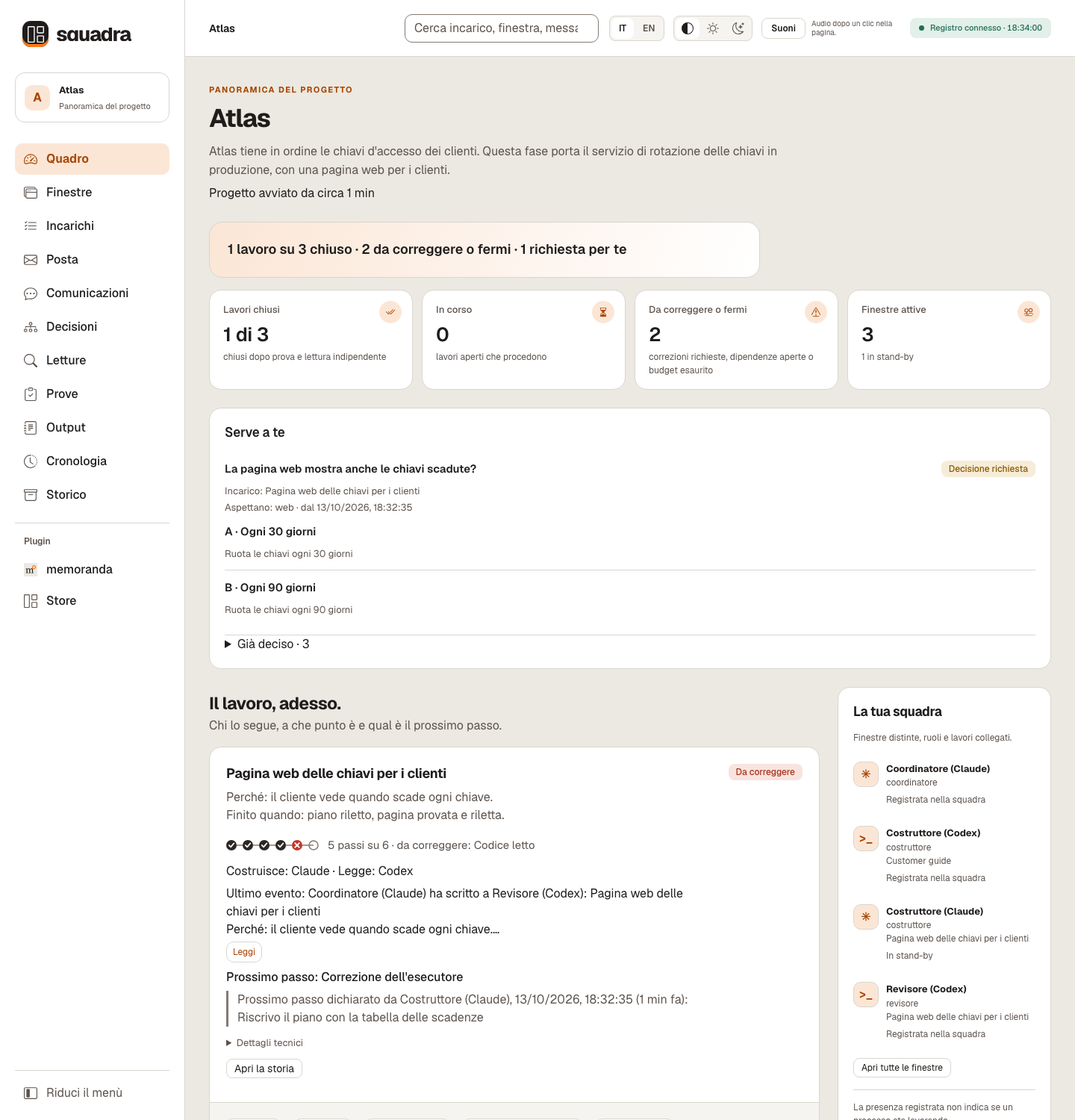
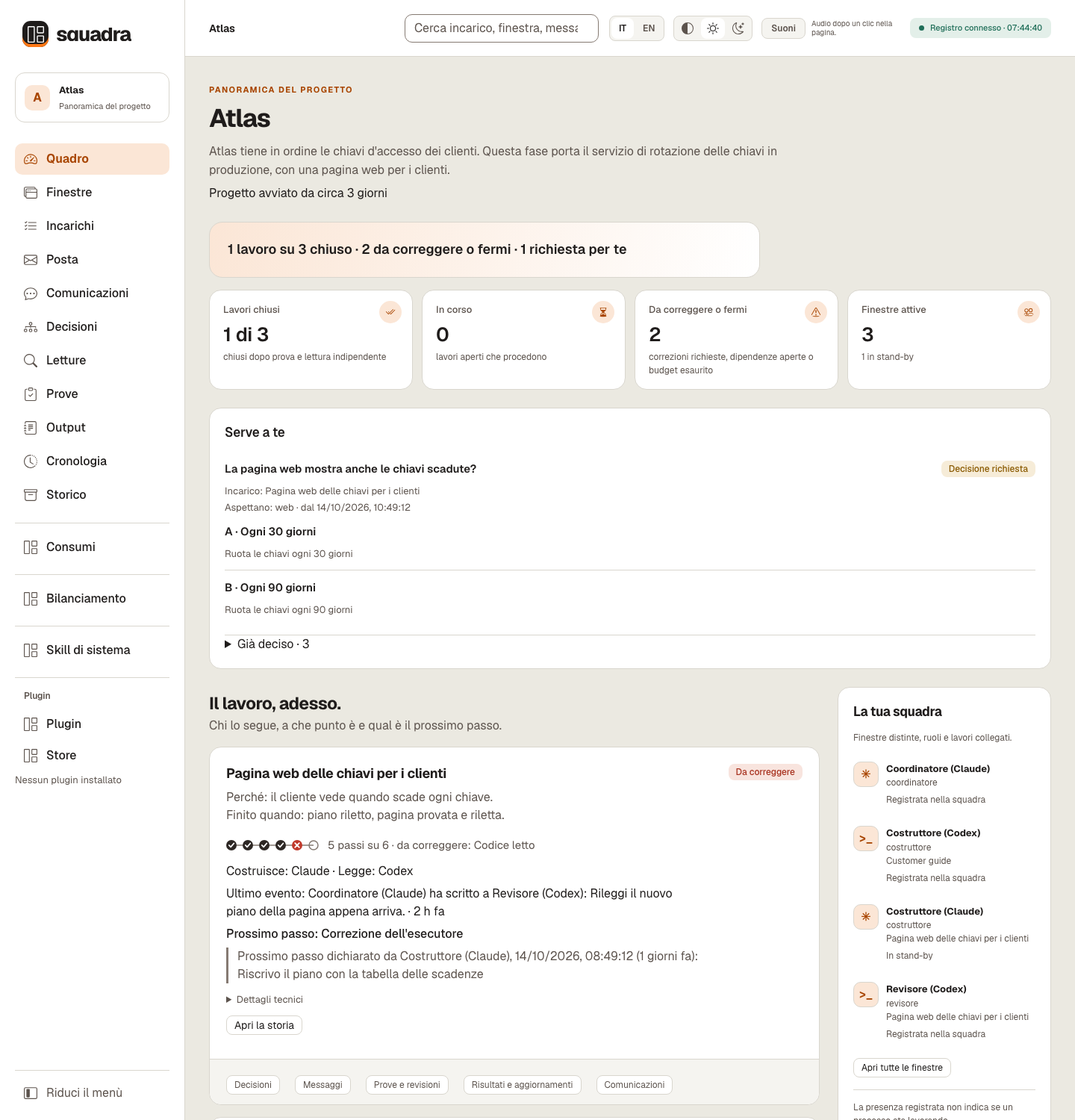
README for 3.10.1: news layout, speed table, new flags, fresh screenshots
- What's new / Novità: 3.10.1 and 3.10.0 stay visible; 3.9.1 and older
  fold into one «Earlier versions» / «Versioni precedenti» block with
  their text unchanged.
- The 3.10.1 entry carries the live speed table the coordinator measured
  on the squad's registry, says where the two «before» times come from,
  and leaves a marked comment for the token row.
- Commands: send --info, status --all and cancel --abandon in the command
  table and in the mail and waits sections; every command line and fenced
  example checked against the 3ca33aa parser.
- Screenshots from a synthetic Atlas registry with synthetic session
  files: overview light and dark and the Store cards refreshed; Usage,
  Balance and System skills added to the Dashboard section and to the
  page guide's screenshot table. No version string, path or real data in
  any saved area.

diff --git a/README.it.md b/README.it.md
@@ -35,15 +35,32 @@ Una squadra mescola finestre Claude Code e Codex, e ogni fornitore ti mostra sol
 
 - **Bilanciamento (nuova skill di sistema).** Consigli su finestre e modelli in base a carico, quota e storia, con i numeri su cui si basa ogni consiglio. Non assegna niente. La pagina dice a parole semplici cosa controlla, i valori di oggi e perché non c'è nessun consiglio quando non ce n'è.
 - **I totali dei Consumi restano stabili mentre i file di sessione crescono.** I calcoli salvati si riusano al riavvio della dashboard; un file riscritto viene ricontato, e una cache assente o non sicura (per esempio con un collegamento simbolico nel percorso) viene ricostruita, come la pagina Consumi segnala.
-- **Comandi che costano meno token alle finestre.** Ogni comando stampava nella finestra che lo lanciava l'intero elenco degli avvisi aperti; ora stampa una risposta breve, e l'elenco completo solo su richiesta (sulla nostra squadra, meno di 3 KB per comando invece di fino a 89 KB).
-- **Un registro che resta veloce mentre la storia cresce.** Un comando ora legge e scrive solo ciò che è cambiato, non tutta la storia (misurato su una copia del nostro registro di 8.500 eventi: «a che punto siamo» da 8,6 a 1,2 secondi, l'invio di un messaggio a un'altra finestra da 27 a 3,2 secondi). La verifica dell'intera catena resta, nei momenti indicati nella guida.
+- **Comandi che costano meno token alle finestre.** Ogni comando stampava nella finestra che lo lanciava l'intero elenco degli avvisi aperti; ora stampa una risposta breve, e `squadra status --all` stampa l'elenco completo (le misure sono nella tabella qui sotto).
+- **Un registro che resta veloce mentre la storia cresce.** Un comando ora legge e scrive solo ciò che è cambiato, non tutta la storia; su una copia del nostro registro di 8.500 eventi, l'invio di un messaggio a un'altra finestra è passato da 27 a 3,2 secondi. La verifica dell'intera catena resta, nei momenti indicati nella guida.
 - **Una dashboard più leggera** che scarica solo ciò che è cambiato, e **grafici animati** nelle pagine Consumi e Bilanciamento.
-- **Messaggi solo informativi** che non chiedono risposta: non restano più aperti come attese.
+- **Messaggi solo informativi** (`send --info`) che non chiedono risposta: non restano più aperti come attese.
 - Plugin: memoranda 1.0.6, Playwright 1.0.7, Sentry 0.1.4.
+
+**Misurato sulla nostra squadra.** Il nostro coordinatore ha preso queste misure sul registro di questa squadra (circa 9.980 eventi) dopo l'installazione della 3.10.1. I due tempi «prima» vengono dagli stessi comandi cronometrati su una copia precedente dello stesso registro, prima della modifica. Dopo l'aggiornamento, i primi comandi costruiscono un'istantanea verificata in circa 6 secondi; i tempi qui sotto sono quelli dei comandi successivi.
+
+| Cosa abbiamo misurato | Prima | Con la 3.10.1 |
+|---|---|---|
+| «A che punto siamo» (`squadra status`) | 8,6 s | 0,85 s |
+| Salvare un aggiornamento (`squadra output`) | 10,7 s | 0,86 s |
+| Risposta stampata da un comando | 75–95 KB | circa 2,2 KB |
+| Aggiornamento della dashboard quando nulla è cambiato | 8 MB | 0,2 KB |
+| Totali dei Consumi mentre le finestre lavorano | salivano e scendevano | solo in crescita (50 campioni, nessuno più basso) |
+
+<!-- TOKEN ROW for the coordinator: before publishing, move this row into the table above if it was measured; otherwise delete this comment.
+| Token che una finestra Claude spende per un «a che punto siamo» | circa 5.000 | circa 1.900 |
+-->
 
 **3.10.0**
 - **Pagina «Consumi»: i token spesi dai modelli.** Squadra legge i file di sessione che Claude Code e Codex tengono già sul tuo computer e ne conserva solo i conteggi dei token, con modello, orario e gli identificativi di sessione e di messaggio che servono a contarli una volta sola: non salva, non mostra e non invia mai il testo delle conversazioni. Li mostra per finestra, giorno, modello e incarico, con grafici e suggerimenti per modello. La quota di Codex è misurata, per ogni finestra del fornitore; un costo stimato compare solo se inserisci i tuoi prezzi. `squadra usage` stampa gli stessi dati.
 - Plugin: memoranda 1.0.5, Playwright 1.0.6, Sentry 0.1.3.
+
+<details>
+<summary><strong>Versioni precedenti</strong></summary>
 
 **3.9.1**
 - **Ritocchi all'interfaccia.** Più spazio nella pagina «Skill di sistema» e tra i suoi blocchi; il grassetto nelle descrizioni delle skill appare come grassetto; l'obiettivo del progetto e la guida alla lettura compaiono solo nella panoramica; più badge in cima a questa pagina.
@@ -64,6 +81,8 @@ Una squadra mescola finestre Claude Code e Codex, e ogni fornitore ti mostra sol
 - **Plugin Sentry (anteprima).** Porta in Squadra riepiloghi ripuliti degli errori. Gratis · Sviluppo finanziato da memoranda. Provato solo con una connessione simulata.
 - **Una vista Letture più comoda.** Mantiene lo scorrimento della tabella, mostra schede sul telefono e perde lo spazio vuoto; i passi numerati dei plugin hanno un solo segno.
 - Plugin: memoranda 1.0.2, Playwright 1.0.3, Sentry 0.1.0.
+
+</details>
 
 ## Cosa la rende diversa
 
@@ -419,11 +438,25 @@ squadra dash --open
 
 Grafici, tabelle ordinabili, una finestra «Leggi» per i testi lunghi, suoni e avvisi quando si chiude un passo, IT / EN e tema chiaro o scuro: [ogni parte della pagina, vista per vista](references/recovery.md#dashboard-page), in inglese, con ogni schermata in entrambe le lingue.
 
-Viste: **Quadro**, **Finestre**, **Incarichi**, **Posta**, **Comunicazioni**, **Decisioni**, **Prove**, **Output**, **Cronologia** e **Storico**; che cosa mostra ognuna è nella [guida della pagina](references/recovery.md#dashboard-page).
+Viste: **Quadro**, **Finestre**, **Incarichi**, **Posta**, **Comunicazioni**, **Decisioni**, **Prove**, **Output**, **Cronologia** e **Storico**; che cosa mostra ognuna è nella [guida della pagina](references/recovery.md#dashboard-page). **Consumi**, **Bilanciamento** e **Skill di sistema** hanno voci proprie nel menù, mostrate qui sotto.
 
 **Comunicazioni** mostra chi parla con chi, in frasi semplici. Inviato non vuol dire letto: solo una conferma registrata dimostra la lettura.
 
 ![La vista Comunicazioni: filtri in alto, chi parla con chi e una cronologia con frasi in parole semplici](docs/images/dashboard-comms-it.png)
+
+**Consumi** mostra i token spesi da ogni finestra, per giorno, finestra, modello e incarico, letti dai file di sessione che Claude Code e Codex tengono già; ne conserva i conteggi dei token, con modello, orario e gli identificativi di sessione e di messaggio che servono a contarli una volta sola, e non salva, non mostra e non invia mai il testo delle conversazioni ([dettagli](references/usage.md), in inglese).
+
+![La pagina Consumi: i token misurati per giorno, per finestra e per modello](docs/images/dashboard-usage-it.png)
+
+**Bilanciamento** suggerisce a quale finestra o modello conviene dare il prossimo incarico, in base a carico, quota e lavori simili, con i numeri su cui si basa ogni suggerimento; non assegna niente ([dettagli](references/skills/bilanciamento.md), in inglese).
+
+![La pagina Bilanciamento: un consiglio, le regole che controlla con i valori di oggi, e carico e quota di ogni finestra](docs/images/dashboard-balance-it.png)
+
+**Skill di sistema** elenca le quattro skill incluse ([errata](references/skills/errata.md), [previsione](references/skills/previsione.md), [rasoio](references/skills/rasoio.md), [bilanciamento](references/skills/bilanciamento.md), in inglese), con cosa fa ognuna, la sua attività registrata e l'esito del controllo di sicurezza sui suoi file.
+
+![La pagina Skill di sistema: ogni skill inclusa con cosa fa e le attivazioni registrate](docs/images/dashboard-system-skills-it.png)
+
+*Le pagine Consumi, Bilanciamento e Skill di sistema sullo stesso registro dimostrativo Atlas, con file di sessione dimostrativi senza testo di conversazioni ([in inglese](docs/images/dashboard-usage-en.png), [Bilanciamento in inglese](docs/images/dashboard-balance-en.png), [Skill di sistema in inglese](docs/images/dashboard-system-skills-en.png)).*
 
 **Aggiornamento e sicurezza.** La pagina si aggiorna ogni due secondi, sospende gli aggiornamenti quando la scheda è nascosta e si aggiorna subito al ritorno. Offre la ricerca nel testo e apre gli artefatti registrati in una finestra. È **in sola lettura salvo impostazioni e selezioni dichiarate dei plugin installati**; le azioni sul registro passano dalla CLI. Ascolta su `127.0.0.1`, verifica Host e token, controlla Origin per il salvataggio di impostazioni e selezioni, e non carica script remoti né CDN. `--port` sceglie una porta (senza, ne cerca una libera); `Ctrl-C` chiude il server della dashboard, non gli agenti; se si disconnette, la pagina conserva l'ultima vista con un avviso.
 
@@ -452,7 +485,7 @@ Schemi, dimensioni, limiti e codici di rifiuto esatti: [contratto dei plugin](re
 
 Apri **Plugin → Store** per vedere il catalogo della release in esecuzione, i comandi di installazione e lo stato locale. Si aggiorna solo all'apertura o con **Aggiorna catalogo**; non c'è un pulsante per installare. I siti dei plugin si aprono al clic in una nuova scheda. Chiedi al coordinatore di eseguire il comando mostrato, che usa questa installazione di Squadra.
 
-![La pagina Store: i plugin inclusi nella release in esecuzione, prima quelli basati su MCP, ognuno con autore, versione, licenza, prezzo, data della revisione e il comando di installazione per il coordinatore](docs/images/dashboard-plugin-store-it.png)
+![Le schede della pagina Store: i plugin inclusi nella release in esecuzione, prima quelli basati su MCP, ognuno con autore, versione, licenza, prezzo, data della revisione e il comando di installazione per il coordinatore](docs/images/dashboard-plugin-store-it.png)
 
 `squadra plugin list` mostra il catalogo della release e `squadra plugin install <nome>` copia un plugin incluso; nulla viene scaricato o eseguito. Con un'installazione tramite `/plugin`, chiedi al coordinatore di eseguirli con `python3 <cartella della release>/scripts/squadra.py`.
 
@@ -557,7 +590,7 @@ squadra output --actor coord --task T1 --file /evidence/update.md \
   --next "Lettura indipendente del candidato congelato" --artifact /evidence/result.json
 ```
 
-Salva **un output sostanziale per ogni passo completato**; il prossimo passo che dichiara non prova che sia successo qualcosa. Risposte, destinatari attesi e trasporti: [dettagli](references/work.md#readme-protocol-details), in inglese.
+Salva **un output sostanziale per ogni passo completato**; il prossimo passo che dichiara non prova che sia successo qualcosa. Un avviso di avanzamento che non chiede risposta si manda con `send --info`: resta visibile senza aspettare un ACK. Risposte, destinatari attesi e trasporti: [dettagli](references/work.md#readme-protocol-details), in inglese.
 
 | Finestra / ruolo | Incarico / candidato | Esito / prova | Skill | Traccia / prossimo passo |
 |---|---|---|---|---|
@@ -592,7 +625,7 @@ Parole riferite, ritiri e che cosa non vale mai come decisione: [dettagli](refer
 
 ## Attese, risorse e presenza
 
-Le attese si calcolano quando una vista viene letta; valori predefiniti in secondi: **ACK 900**, **delivered 3600**, **reviewed 1800**, **heartbeat 1800**, **alive 300**. Un avviso non riprova, non riassegna e non rilascia nulla. Riserva gate, porte e database prima di usarli. **Lo stand-by non ferma nulla:** non annulla processi, non rilascia risorse, non trasferisce ruoli e non riassegna lavoro.
+Le attese si calcolano quando una vista viene letta; valori predefiniti in secondi: **ACK 900**, **delivered 3600**, **reviewed 1800**, **heartbeat 1800**, **alive 300**. Un avviso non riprova, non riassegna e non rilascia nulla. I comandi stampano le attese raggruppate, al massimo cinque; `squadra status --all` le stampa tutte. Riserva gate, porte e database prima di usarli. **Lo stand-by non ferma nulla:** non annulla processi, non rilascia risorse, non trasferisce ruoli e non riassegna lavoro.
 
 Soglie, chiamate di presenza e perché tutte le finestre dovrebbero usare la stessa versione: [dettagli](references/work.md#readme-protocol-details), in inglese.
 
@@ -696,7 +729,7 @@ Ogni comando, raggruppato per scopo: **50 sottocomandi**, più `--version`. Usa 
 
 | Comando | Cosa fa |
 |---|---|
-| `send` | Scrive un messaggio a una finestra, eventualmente su un incarico o in risposta a un altro. |
+| `send` | Scrive un messaggio a una finestra, eventualmente su un incarico o in risposta a un altro; `--info` indica un avviso che non chiede ACK (non con `--to-new`). |
 | `inbox` | Legge i messaggi di una finestra e le loro conferme. |
 | `ack` | Conferma un messaggio ricevuto davvero; può farlo solo il destinatario. |
 | `transport` | Consegna un messaggio a mano o tramite la coda di Codex (per un posto registrato con `--session`), e ne registra l'esito. |
@@ -742,13 +775,13 @@ Ogni comando, raggruppato per scopo: **50 sottocomandi**, più `--version`. Usa 
 | Comando | Cosa fa |
 |---|---|
 | `run` | Avvia un turno non interattivo del client Codex o Claude registrato, per leggere o per costruire. |
-| `cancel` | Chiede di fermare un'esecuzione posseduta. |
+| `cancel` | Chiede di fermare un'esecuzione posseduta; con `--abandon`, `--reason` e `--evidence`, la finestra che ha avviato un'esecuzione la dichiara orfana, senza processo e senza risultati. |
 
 ### Stato e storico
 
 | Comando | Cosa fa |
 |---|---|
-| `status` | Mostra incarichi, richieste per il proprietario, attese e le tabelle dell'avanzamento. |
+| `status` | Mostra incarichi, richieste per il proprietario, le attese raggruppate e le tabelle dell'avanzamento; `--all` stampa tutte le attese e la tabella completa. |
 | `doctor` | Controlla la catena di hash e gli artefatti; segnala ACK in sospeso ed esecuzioni incerte. |
 | `export` | Rigenera dal registro le esportazioni complete strutturate, leggibili e della storia della posta. |
 | `legacy` | Importa vecchi record come copie storiche non verificate. |

diff --git a/README.md b/README.md
@@ -35,15 +35,32 @@ A squad mixes Claude Code and Codex windows, and each provider shows you only it
 
 - **Balance (new system skill).** Advice on windows and models by load, quota and history, with the numbers each piece of advice rests on. It assigns nothing. The page says in plain words what it checks, today's values, and why there is no advice when there is none.
 - **Usage totals stay stable while session files grow.** Saved calculations let a dashboard restart reuse earlier counts; a file that was rewritten is counted again, and a missing or unsafe cache (for example a symbolic link on its path) is rebuilt, which the Usage page says.
-- **Commands that cost the windows fewer tokens.** Every command used to print the whole list of open waits into the window that ran it; now it prints a short answer and the full list on request (on our squad, under 3 KB per command instead of up to 89 KB).
-- **A registry that stays fast as the history grows.** A command now reads and writes what changed, not the whole history (measured on a copy of our 8,500-event registry: «where are we» from 8.6 s to 1.2 s, sending a message to another window from 27 s to 3.2 s). Integrity checks still cover the whole chain at the moments listed in the guide.
+- **Commands that cost the windows fewer tokens.** Every command used to print the whole list of open waits into the window that ran it; now it prints a short answer, and `squadra status --all` prints the full list (the figures are in the table below).
+- **A registry that stays fast as the history grows.** A command now reads and writes what changed, not the whole history; on a copy of our 8,500-event registry, sending a message to another window went from 27 s to 3.2 s. Integrity checks still cover the whole chain at the moments listed in the guide.
 - **A lighter dashboard** that downloads only what changed, and **animated charts** on the Usage and Balance pages.
-- **Information messages** that expect no reply no longer stay open as waits.
+- **Information messages** (`send --info`) that expect no reply no longer stay open as waits.
 - Plugins: memoranda 1.0.6, Playwright 1.0.7, Sentry 0.1.4.
+
+**Measured on our own squad.** Our coordinator took these figures on this squad's registry (about 9,980 events) after installing 3.10.1. The two «before» times come from the same commands timed on an earlier copy of the same registry, before the change. After the upgrade, the first commands build a verified snapshot in about 6 s; the times below are for the commands after it.
+
+| What we measured | Before | With 3.10.1 |
+|---|---|---|
+| «Where are we» (`squadra status`) | 8.6 s | 0.85 s |
+| Saving an output (`squadra output`) | 10.7 s | 0.86 s |
+| Answer printed by a command | 75–95 KB | about 2.2 KB |
+| Dashboard refresh when nothing changed | 8 MB | 0.2 KB |
+| Usage totals while windows work | went up and down | only grow (50 samples, none lower) |
+
+<!-- TOKEN ROW for the coordinator: before publishing, move this row into the table above if it was measured; otherwise delete this comment.
+| Tokens a Claude window spends on one «where are we» | about 5,000 | about 1,900 |
+-->
 
 **3.10.0**
 - **Usage page: tokens spent by the models.** Squadra reads the session files Claude Code and Codex already keep on your computer and keeps only the token counts, with the model, time and session and message identifiers needed to count each message once; it never stores, shows or sends the text of the conversations. It shows them per window, day, model and task, with charts and suggestions per model. Codex quota is shown as measured, for each provider window; an estimated cost appears only if you enter your own prices. `squadra usage` prints the same data.
 - Plugins: memoranda 1.0.5, Playwright 1.0.6, Sentry 0.1.3.
+
+<details>
+<summary><strong>Earlier versions</strong></summary>
 
 **3.9.1**
 - **Interface fixes.** More room on the System skills page and between its blocks; bold text in skill descriptions shows as bold; the project goal and the reading help appear on the overview only; more badges at the top of this page.
@@ -64,6 +81,8 @@ A squad mixes Claude Code and Codex windows, and each provider shows you only it
 - **Sentry plugin (preview).** It brings sanitised error summaries into Squadra. FREE · Sponsored by memoranda. Tested with a synthetic connection only.
 - **A friendlier Reads view.** It keeps the table's scroll position, shows cards on phones and loses the blank band; numbered plugin steps show one marker.
 - Plugins: memoranda 1.0.2, Playwright 1.0.3, Sentry 0.1.0.
+
+</details>
 
 ## What makes it different
 
@@ -417,11 +436,25 @@ squadra dash --open
 
 Charts, sortable tables, a «Read» dialog for long texts, sounds and notices when a step closes, IT / EN and light / dark: [every part of the page, view by view](references/recovery.md#dashboard-page), with every screenshot in both languages.
 
-Views: **Summary**, **Windows**, **Tasks**, **Mail**, **Communications**, **Decisions**, **Runs**, **Outputs**, **Timeline** and **History**; what each one shows is in [the page guide](references/recovery.md#dashboard-page).
+Views: **Summary**, **Windows**, **Tasks**, **Mail**, **Communications**, **Decisions**, **Runs**, **Outputs**, **Timeline** and **History**; what each one shows is in [the page guide](references/recovery.md#dashboard-page). **Usage**, **Balance** and **System skills** have their own menu entries, shown below.
 
 **Communications** shows who talks to whom, in plain sentences. Sent is not read: only a recorded confirmation proves reading.
 
 ![The Communications view: filters on top, who talks to whom, and a timeline in plain sentences](docs/images/dashboard-comms-en.png)
+
+**Usage** shows the tokens each window spent, by day, window, model and task, read from the session files Claude Code and Codex already keep; it keeps the token counts, with the model, time and the session and message identifiers needed to count each message once, and never stores, shows or sends the text of the conversations ([details](references/usage.md)).
+
+![The Usage page: measured tokens per day, by window and by model](docs/images/dashboard-usage-en.png)
+
+**Balance** suggests which window or model should take the next task, by load, quota and similar work, with the numbers behind each suggestion; it assigns nothing ([details](references/skills/bilanciamento.md)).
+
+![The Balance page: one piece of advice, the rules it checks with today's values, and each window's load and quota](docs/images/dashboard-balance-en.png)
+
+**System skills** lists the four built-in skills ([errata](references/skills/errata.md), [previsione](references/skills/previsione.md), [rasoio](references/skills/rasoio.md), [bilanciamento](references/skills/bilanciamento.md)), with what each does, its recorded activity and the security scan result for its files.
+
+![The System skills page: each built-in skill with what it does and its recorded activations](docs/images/dashboard-system-skills-en.png)
+
+*The Usage, Balance and System skills pages on the same synthetic Atlas registry, with synthetic session files that contain no conversation text ([Italian](docs/images/dashboard-usage-it.png), [Balance in Italian](docs/images/dashboard-balance-it.png), [System skills in Italian](docs/images/dashboard-system-skills-it.png)).*
 
 **Refresh and safety.** The page refreshes every two seconds, pauses while the tab is hidden, and refreshes immediately when you return. It offers text search and opens registered artifacts in a dialog. It is **read-only except declared settings and selections of installed plugins**; registry actions use the CLI. It listens on `127.0.0.1`, checks Host and token, checks Origin for settings and selection writes, and loads no remote scripts or CDN. `--port` picks a port (by default a free one); `Ctrl-C` closes the dashboard server, not the agents; a disconnected page keeps its last view with a warning.
 
@@ -450,7 +483,7 @@ Exact schemas, sizes, limits and refusal codes: [plugin contract](references/plu
 
 Open **Plugins → Store** to see the running release's catalogue, its install commands and local installation status. It refreshes only when opened or when you choose **Refresh catalogue**; there is no install button. Homepage links open on a click in a new tab. Ask the coordinator to run the displayed command, which targets this installation of Squadra.
 
-![The Store page: the plugins bundled in the running release, MCP-based first, each with publisher, version, licence, price, review date and the install command for the coordinator](docs/images/dashboard-plugin-store-en.png)
+![The Store page's cards: the plugins bundled in the running release, MCP-based first, each with publisher, version, licence, price, review date and the install command for the coordinator](docs/images/dashboard-plugin-store-en.png)
 
 `squadra plugin list` shows the release's catalogue and `squadra plugin install <name>` copies a bundled plugin; nothing is downloaded or run. With a `/plugin` installation, ask the coordinator to run them through `python3 <release root>/scripts/squadra.py`.
 
@@ -555,7 +588,7 @@ squadra output --actor coord --task T1 --file /evidence/update.md \
   --next "Independent read of the frozen candidate" --artifact /evidence/result.json
 ```
 
-Save **one substantive output per completed step**; its declared next step is not evidence that anything happened. Replies, expected recipients and transports: [details](references/work.md#readme-protocol-details).
+Save **one substantive output per completed step**; its declared next step is not evidence that anything happened. A progress notice that needs no reply goes with `send --info`: it stays visible without waiting for an ACK. Replies, expected recipients and transports: [details](references/work.md#readme-protocol-details).
 
 | Window / role | Task / candidate | Result / evidence | Skills | Trace / next step |
 |---|---|---|---|---|
@@ -590,7 +623,7 @@ Relayed words, withdrawals and what never counts as a decision: [details](refere
 
 ## Waits, resources and presence
 
-Waits are computed when a view is read; defaults in seconds: **ACK 900**, **delivered 3600**, **reviewed 1800**, **heartbeat 1800**, **alive 300**. A warning never retries, reassigns or releases anything. Reserve gates, ports and databases before use. **Stand-by stops nothing:** it does not cancel processes, release resources, transfer roles or reassign work.
+Waits are computed when a view is read; defaults in seconds: **ACK 900**, **delivered 3600**, **reviewed 1800**, **heartbeat 1800**, **alive 300**. A warning never retries, reassigns or releases anything. Commands print the waits grouped, at most five; `squadra status --all` prints every one. Reserve gates, ports and databases before use. **Stand-by stops nothing:** it does not cancel processes, release resources, transfer roles or reassign work.
 
 Thresholds, presence calls and why every window should run the same version: [details](references/work.md#readme-protocol-details).
 
@@ -694,7 +727,7 @@ Every command, grouped by purpose: **50 subcommands**, plus `--version`. Use `sq
 
 | Command | What it does |
 |---|---|
-| `send` | Write a message to a window, optionally about a task or in reply to another. |
+| `send` | Write a message to a window, optionally about a task or in reply to another; `--info` marks a notice that needs no ACK (not with `--to-new`). |
 | `inbox` | Read a window's messages and their confirmations. |
 | `ack` | Confirm a message you actually received; only the recipient can do it. |
 | `transport` | Deliver a message by hand or through the Codex queue (for a seat registered with `--session`), and record the outcome. |
@@ -740,13 +773,13 @@ Every command, grouped by purpose: **50 subcommands**, plus `--version`. Use `sq
 | Command | What it does |
 |---|---|
 | `run` | Start a non-interactive turn of the registered Codex or Claude client, to read or to build. |
-| `cancel` | Ask for an owned run to stop. |
+| `cancel` | Ask for an owned run to stop; with `--abandon`, `--reason` and `--evidence`, the window that started a run declares it orphaned, with no process and no results. |
 
 ### Status and history
 
 | Command | What it does |
 |---|---|
-| `status` | Show tasks, what needs the owner, waits and the progress tables. |
+| `status` | Show tasks, what needs the owner, the grouped waits and the progress tables; `--all` prints every wait and the full detailed table. |
 | `doctor` | Check the hash chain and the artifacts; report pending ACKs and uncertain runs. |
 | `export` | Regenerate complete structured, readable and mail/history exports from the registry. |
 | `legacy` | Import old records as historical, unverified copies. |

diff --git a/references/recovery.md b/references/recovery.md
@@ -306,6 +306,9 @@ Every screenshot exists in both languages:
 | Communications, one pair | [EN](../docs/images/dashboard-comms-pair-en.png) | [IT](../docs/images/dashboard-comms-pair-it.png) |
 | Decisions | [EN](../docs/images/dashboard-decisions-en.png) | [IT](../docs/images/dashboard-decisions-it.png) |
 | Reads | [EN](../docs/images/dashboard-reads-en.png) | [IT](../docs/images/dashboard-reads-it.png) |
+| Usage | [EN](../docs/images/dashboard-usage-en.png) | [IT](../docs/images/dashboard-usage-it.png) |
+| Balance | [EN](../docs/images/dashboard-balance-en.png) | [IT](../docs/images/dashboard-balance-it.png) |
+| System skills | [EN](../docs/images/dashboard-system-skills-en.png) | [IT](../docs/images/dashboard-system-skills-it.png) |
 | Plugin page | [EN](../docs/images/dashboard-plugins-en.png) | [IT](../docs/images/dashboard-plugins-it.png) |
 | Plugin settings | [EN](../docs/images/dashboard-plugin-settings-en.png) | [IT](../docs/images/dashboard-plugin-settings-it.png) |
 | Plugin memories | [EN](../docs/images/dashboard-plugin-memories-en.png) | [IT](../docs/images/dashboard-plugin-memories-it.png) |
